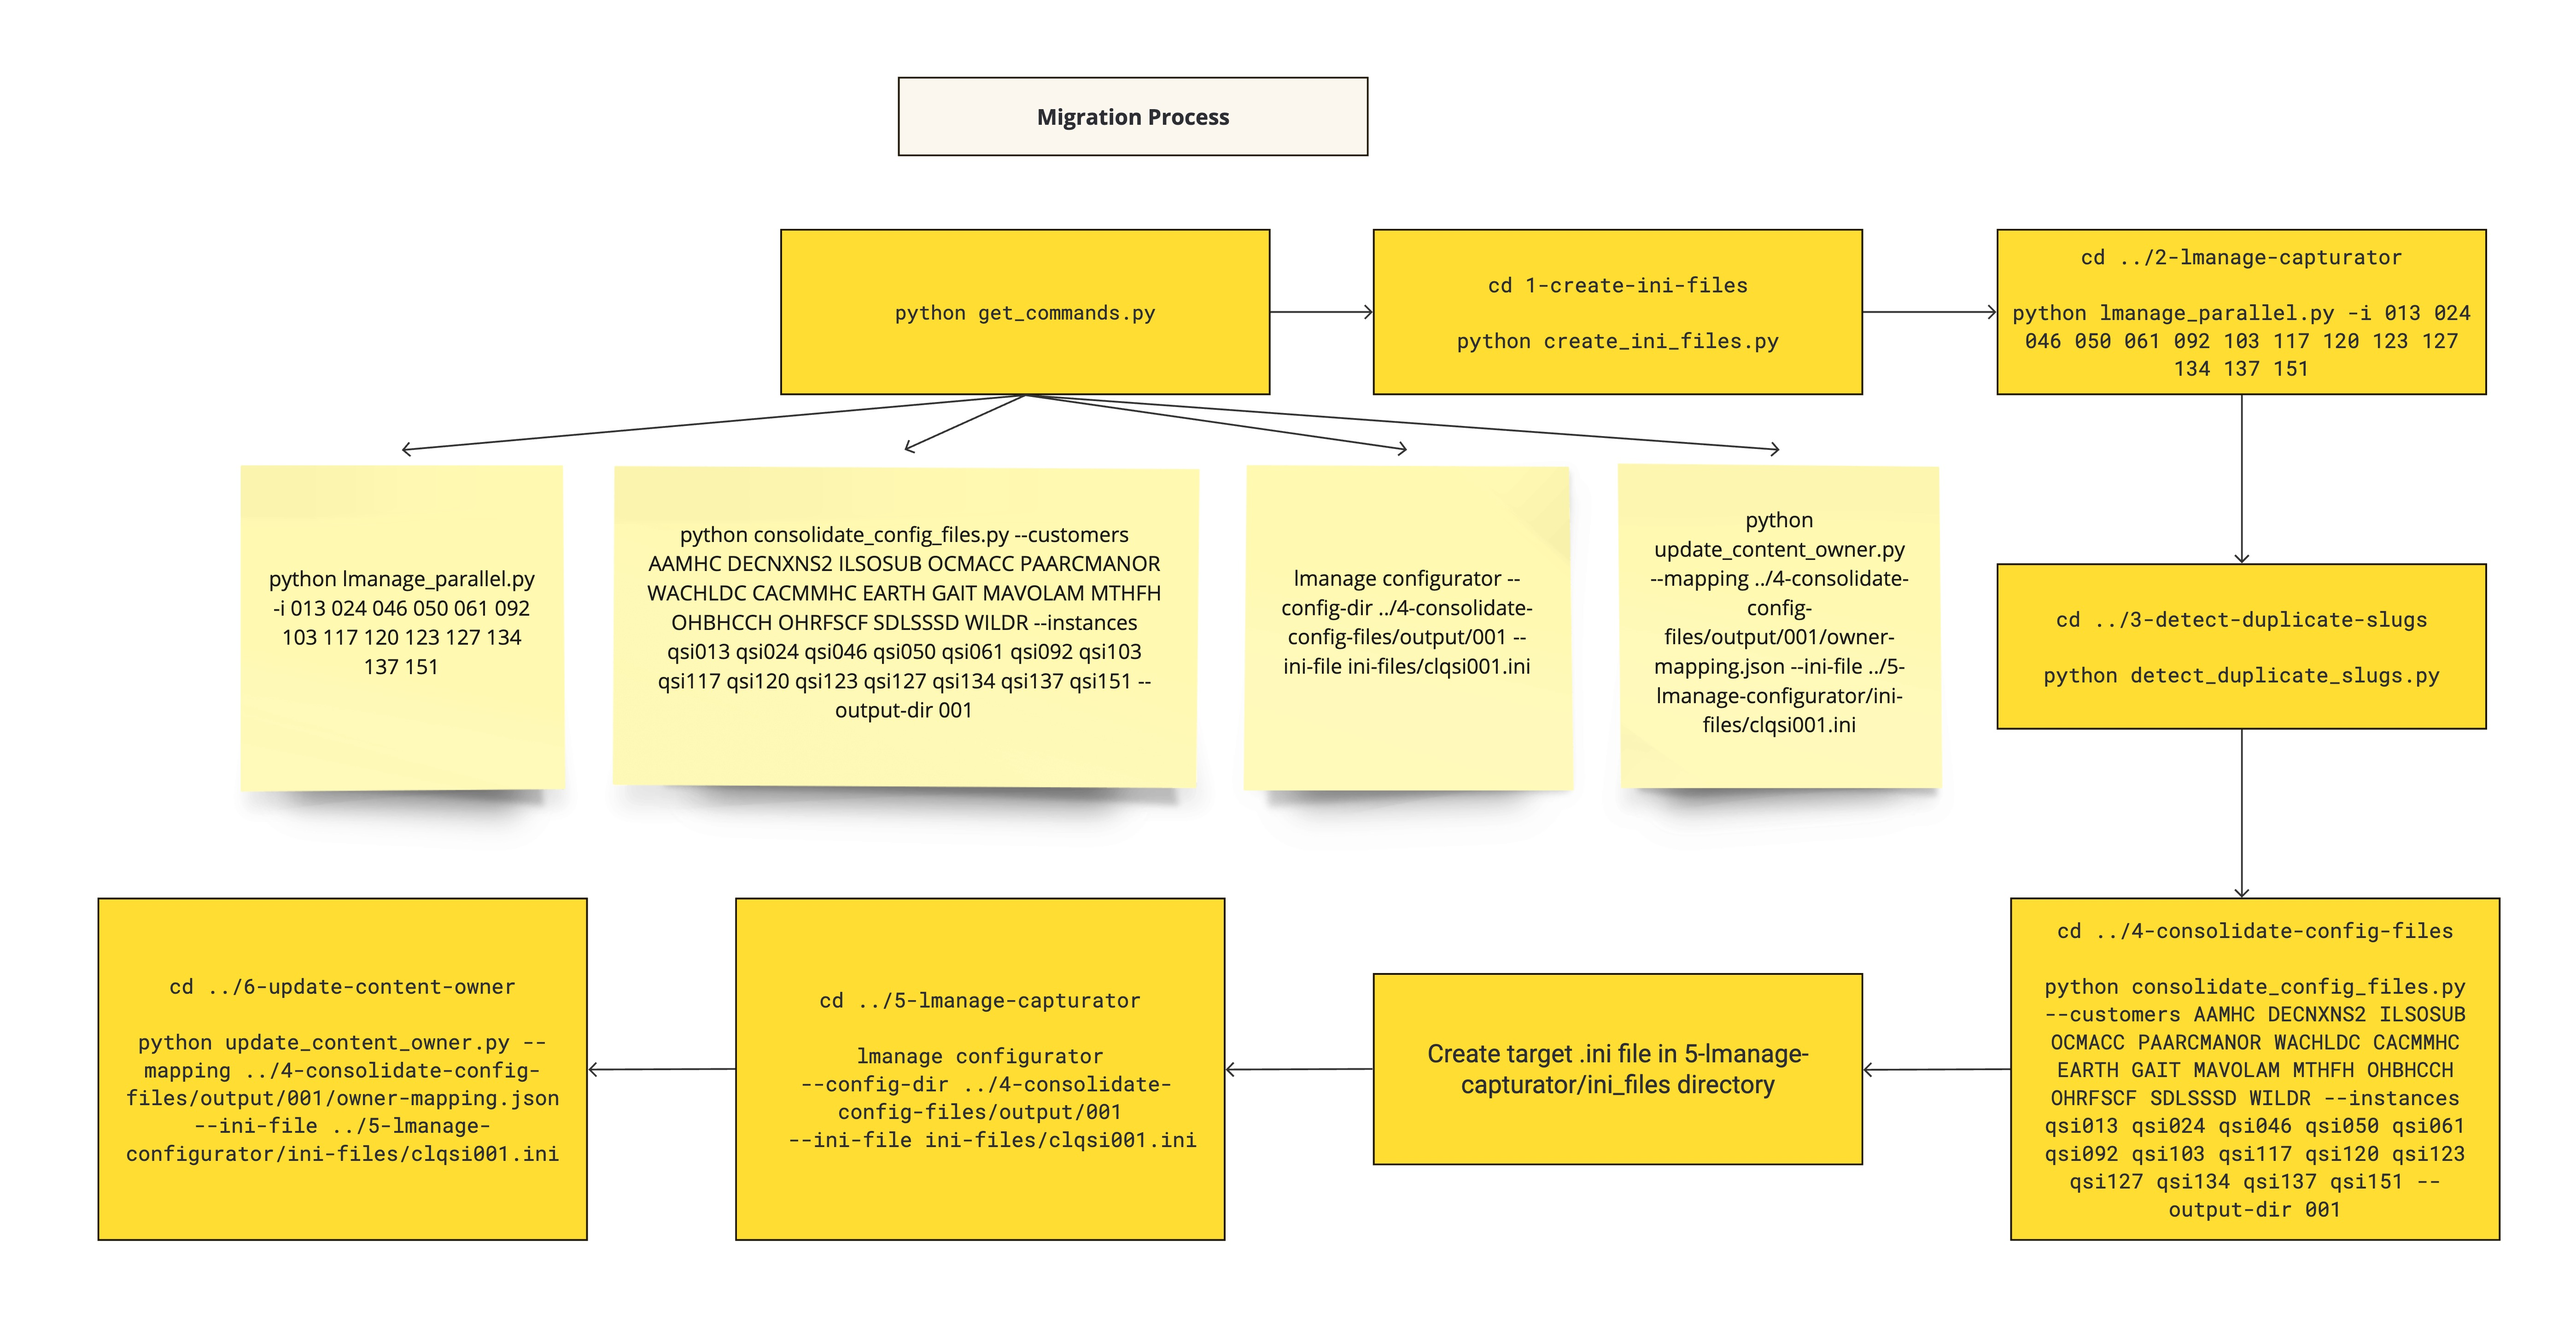
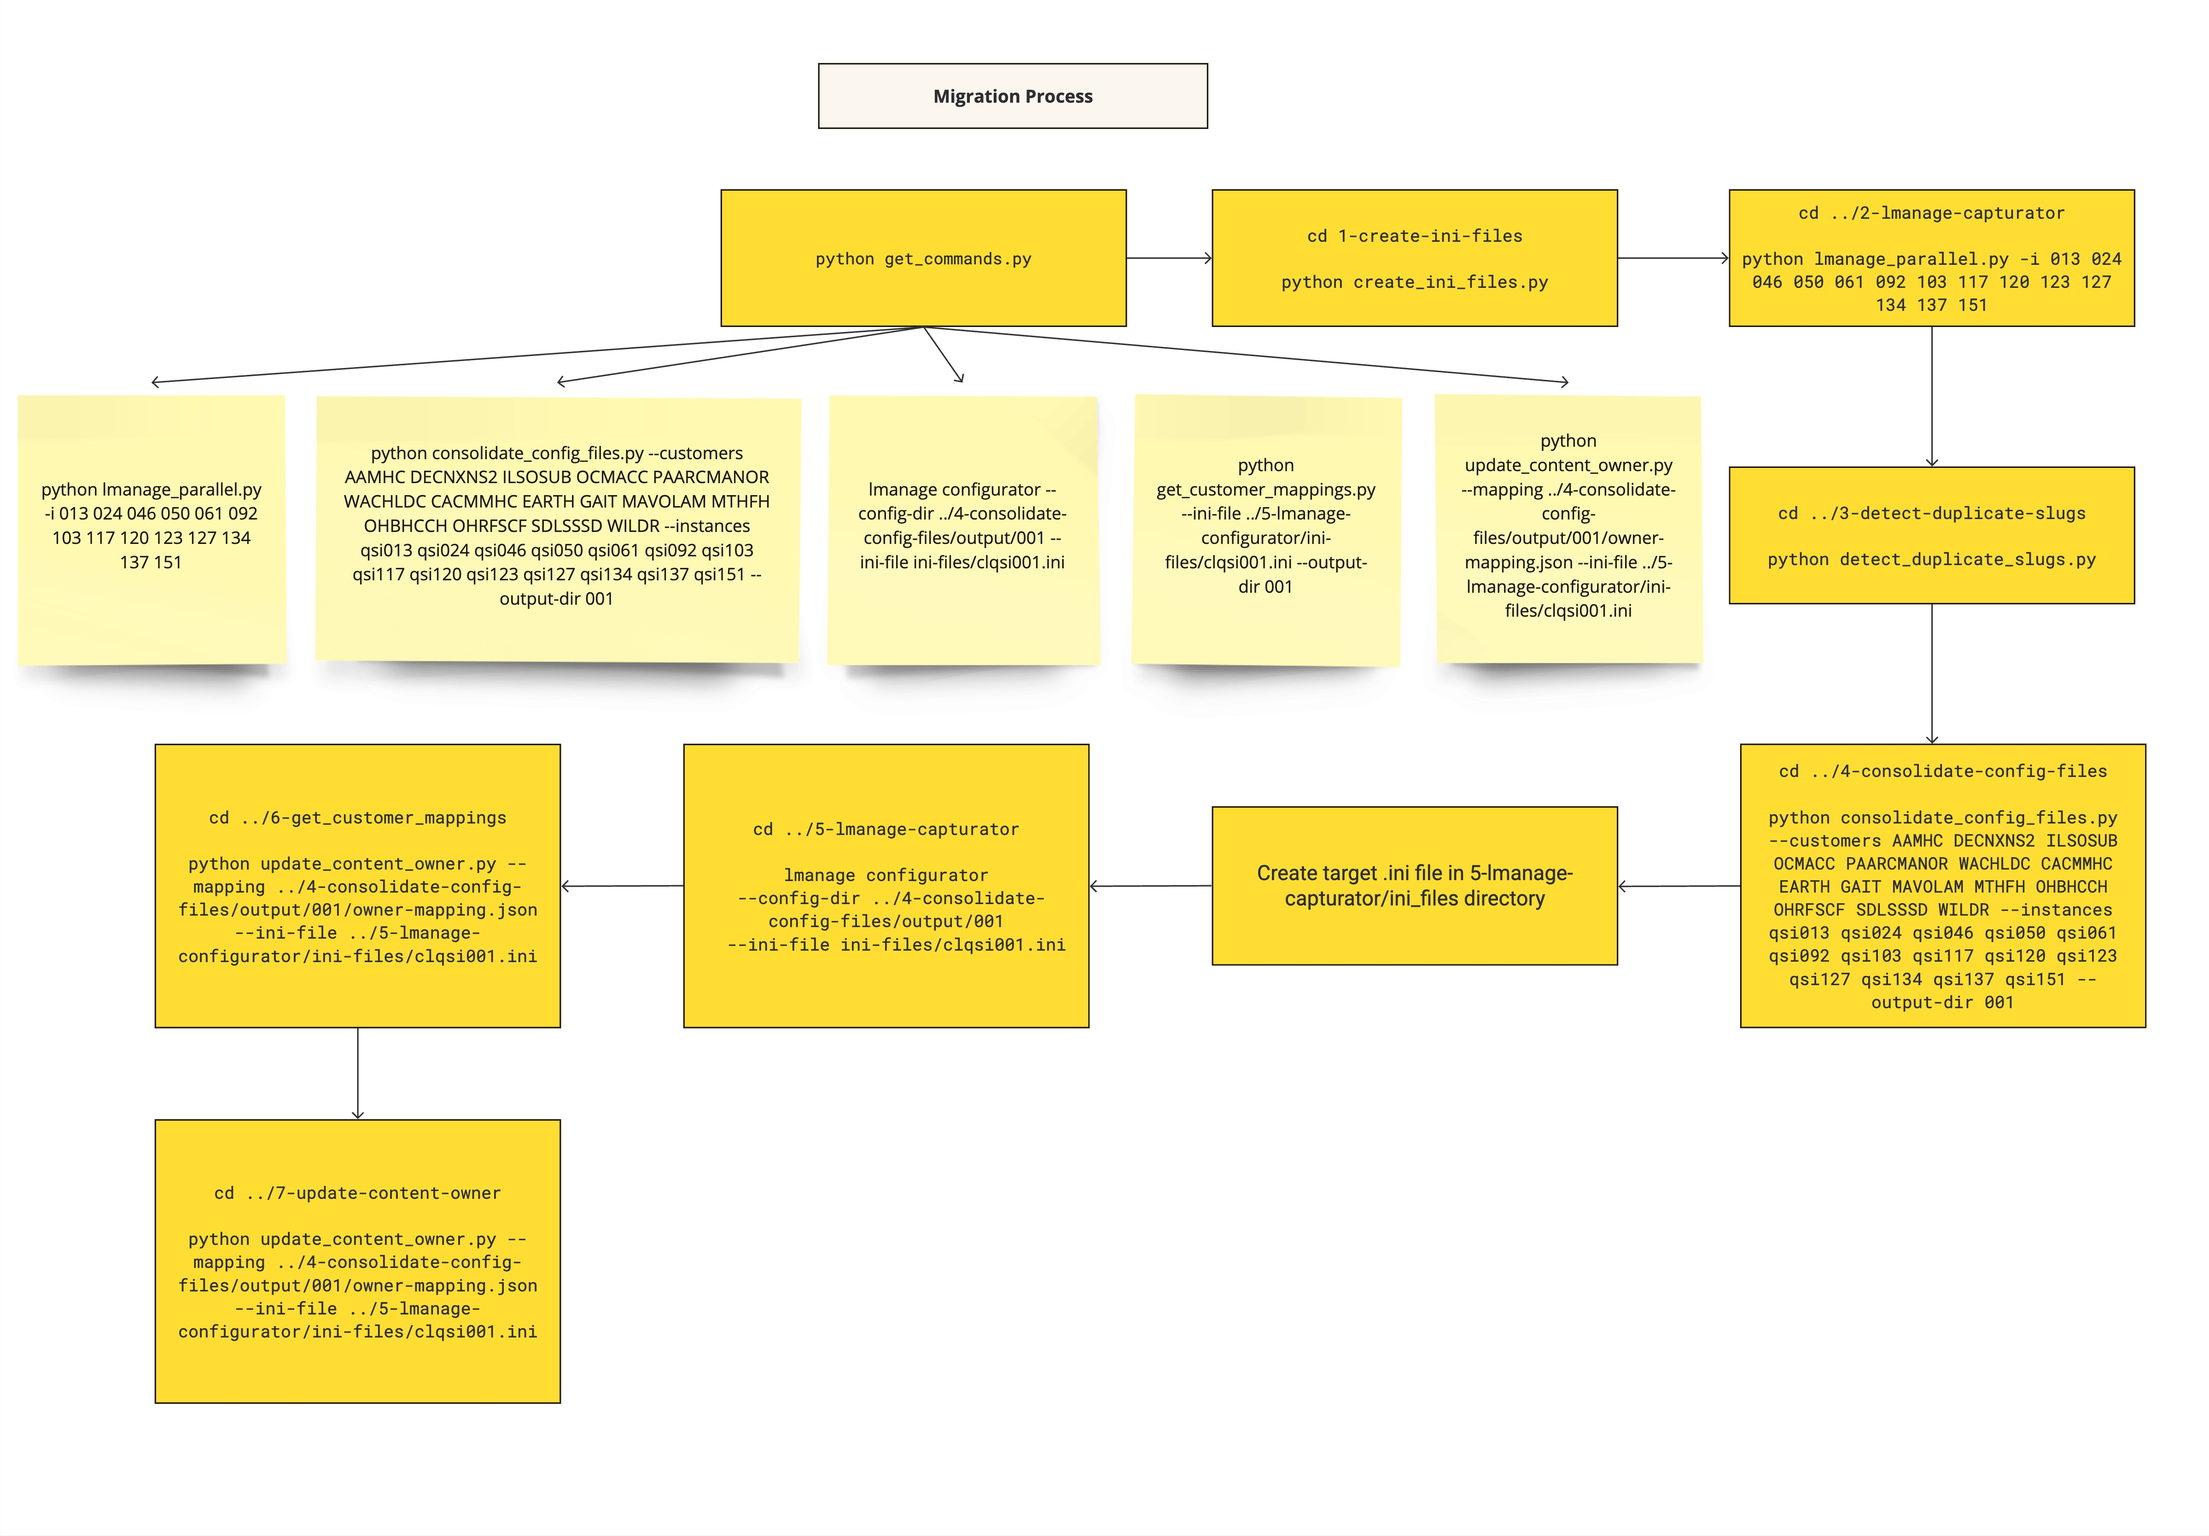
Updated README with new diagram, various copy updates

diff --git a/README.md b/README.md
@@ -7,9 +7,11 @@ This repo contains custom-tailored scripts for migrating Qualifacts Looker custo
 3. Detect duplicate slugs; if found, manually update
 4. Combine customer settings/content based on proposed instance mapping
 5. Run lmanage configurator to execute migration
-6. Update owner for scheduled plans and alerts to original owner
+6. Get customer mappings for folder id, viewer group id, and writer group id
+7. Update owner for scheduled plans and alerts to original owner
 
-> NOTE: Before execution, review `current-customer-instance-configuration-mapping.csv` to see which instances currently contain which customer accounts, and `proposed-customer-instance-mapping.csv` to see which customer accounts should end up together.  The latter is based on overall usage and peak time analysis.
+> NOTE: Before execution, review `current-customer-instance-configuration-mapping.csv` to see which instances currently contain which customer accounts, and `proposed-customer-instance-mapping.csv` to see which customer accounts should end up together.  The latter is based on overall usage and peak time analysis. For overall usage analysis and alternative proposed mappings, see: https://docs.google.com/spreadsheets/d/18bgF59iOuMUrNLJmiuJreQRfI9YMy_BZYlVHm4CJh90/edit?gid=1194315819#gid=1194315819
+
 
 ![Migration Process](migration-process.jpg "Migration Process")
 

diff --git a/EXAMPLE_WALKTHROUGH.md b/EXAMPLE_WALKTHROUGH.md
@@ -74,7 +74,7 @@ lmanage configurator \
 ```
 cd ../6-get-customer-mappings
 
-python get_customer_mappings.py --ini_file ../5-lmanage-configurator/ini-files/qsi166.ini --output-dir 166
+python get_customer_mappings.py --ini-file ../5-lmanage-configurator/ini-files/qsi166.ini --output-dir 166
 ```
 
 This will output a .csv containing all customer accounts, their respective folder id, and their respective viewer and writer group ids, like so:
